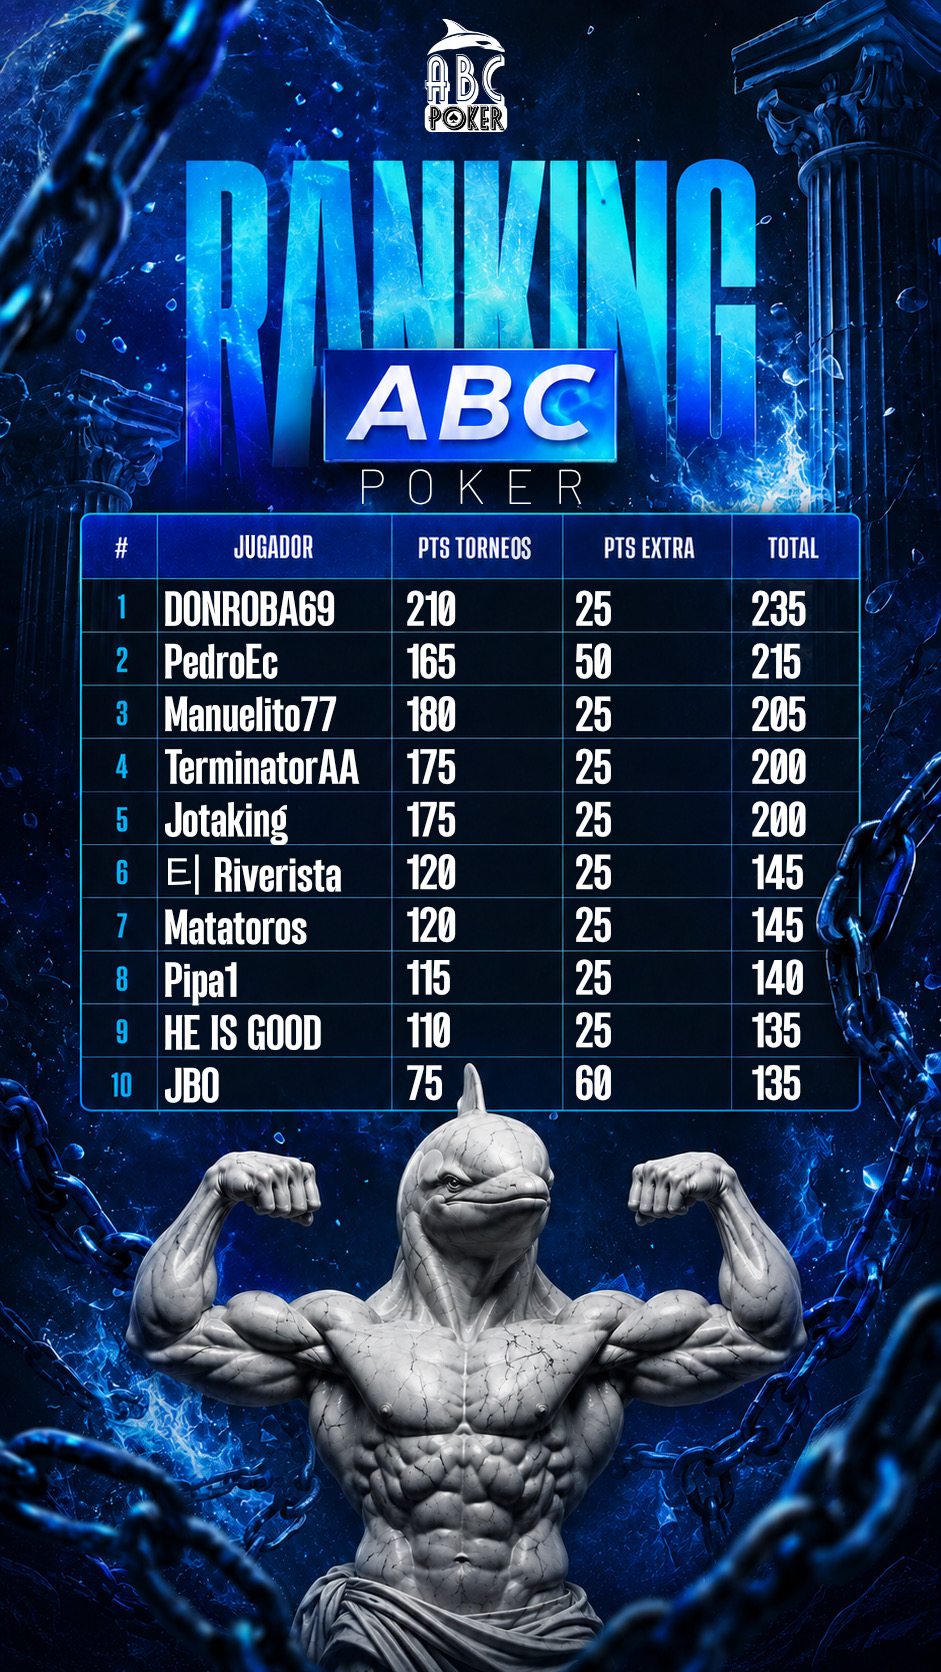
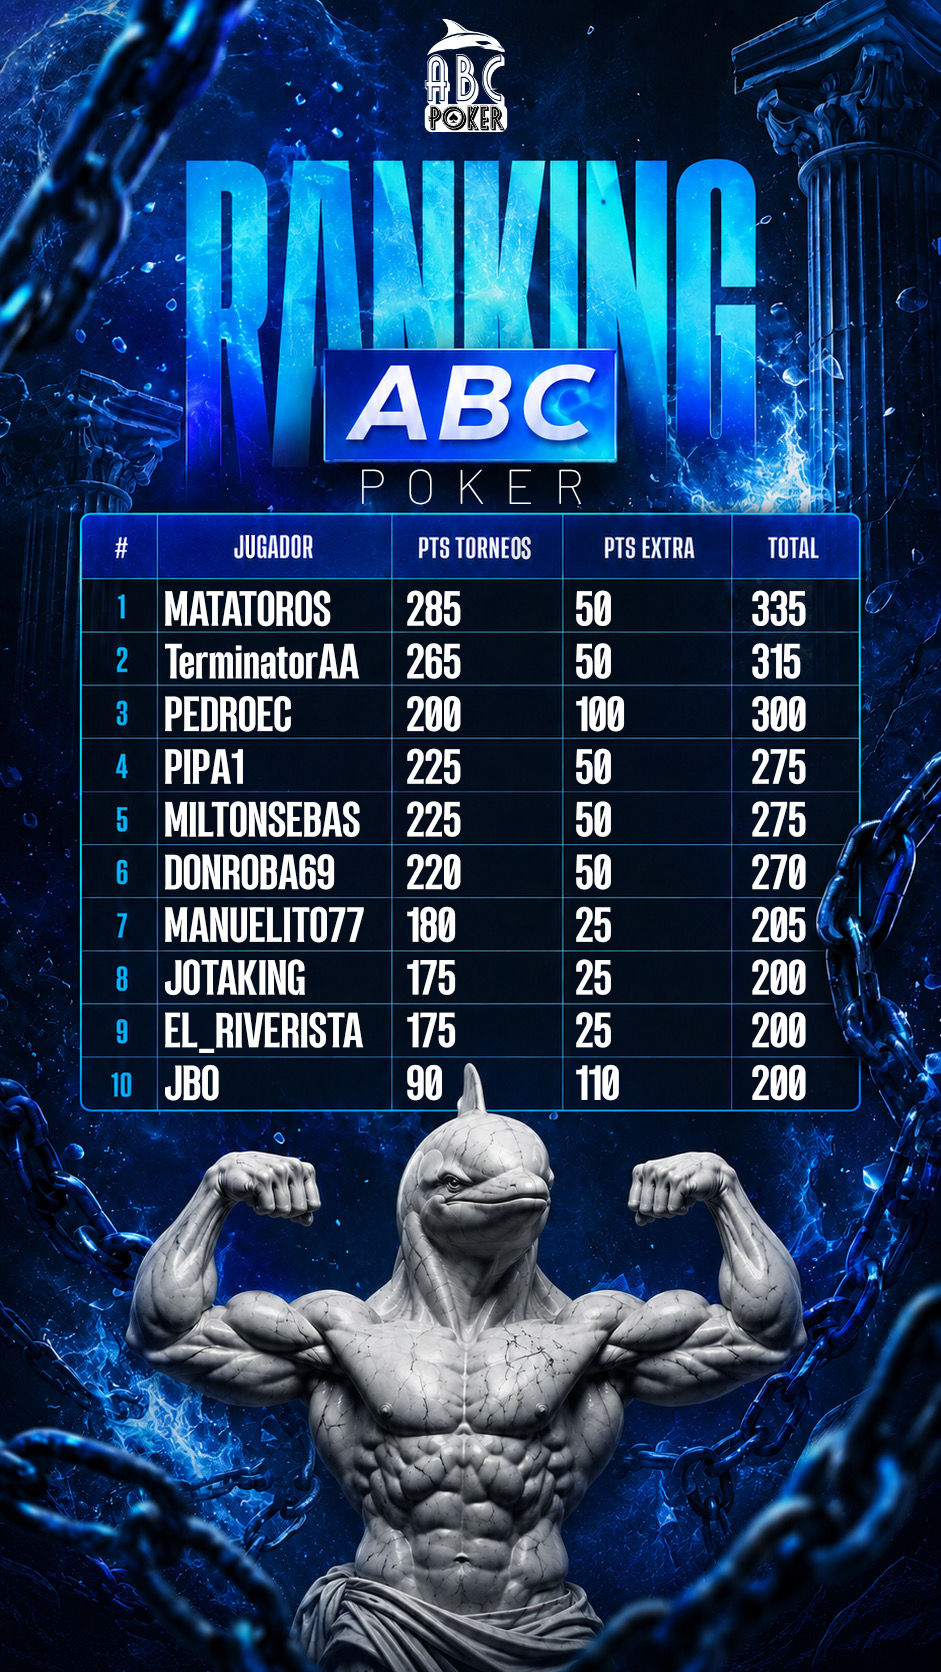
UPDATE: Synchronize official Ranking poster (RANKINGABCC.jpg?v=3), Leaderboard table (Matatoros #1 335pts), and Calendario schedule (Mystery Bounty & 8:00 PM times)

diff --git a/index.html b/index.html
@@ -826,11 +826,11 @@
       </div>
 
       <div class="relative rounded-2xl overflow-hidden border border-cyan-500/30 shadow-2xl bg-slate-950 flex items-center justify-center">
-        <img src="/RANKINGABCC.jpg?v=2" alt="Ranking Oficial ABC Poker" class="w-full h-full object-contain max-h-[65vh]" />
+        <img src="/RANKINGABCC.jpg?v=3" alt="Ranking Oficial ABC Poker" class="w-full h-full object-contain max-h-[65vh]" />
       </div>
 
       <div class="flex items-center justify-between pt-2 text-xs text-slate-400 font-mono">
-        <span>Líder Actual: <strong class="text-amber-400">DONROBA69 (235 PTS)</strong></span>
+        <span>Líder Actual: <strong class="text-amber-400">MATATOROS (335 PTS)</strong></span>
         <button onclick="closeModal('ranking-poster-modal')" class="interactive-btn px-4 py-2 rounded-xl text-xs font-bold text-slate-950 bg-cyan-400">
           Cerrar Vista
         </button>
@@ -1028,13 +1028,13 @@
     // 3 Confirmed Weekly Tournaments (images from 'calendario/confirmados/')
     const CALENDAR_EVENTS = [
       {
-        id: 'cal-pko',
+        id: 'cal-mystery',
         date: '14',
         dayName: 'Martes',
-        title: 'PKO BOUNTY CAZADOR',
+        title: 'MYSTERY BOUNTY CAZADOR',
         gtd: '$500 GTD',
         buyIn: '$15 - 50.000PTS',
-        time: '10:00 PM',
+        time: '8:00 PM',
         status: 'confirmado',
         image: '/calendario/confirmados/PKO.jpg',
         clubId: '1743809',
@@ -1062,7 +1062,7 @@
         title: 'SUNDAY SPECIAL ESTELAR',
         gtd: '$700 GTD',
         buyIn: '$10',
-        time: '5:00 PM',
+        time: '8:00 PM',
         status: 'confirmado',
         image: '/calendario/confirmados/sunday.jpg',
         clubId: '1743809',
@@ -1083,7 +1083,7 @@
       },
       {
         championName: 'El-algoritmo',
-        tournamentTitle: 'PKO BOUNTY',
+        tournamentTitle: 'MYSTERY BOUNTY',
         prize: '$95.68',
         bounty: '$129.84',
         date: 'Campeón Cazador',
@@ -1102,16 +1102,16 @@
     ];
 
     const RANKING = [
-      { rank: 1, name: 'DONROBA69', ptsTorneos: 210, ptsExtra: 25, total: 235, badge: 'LÍDER #1 👑' },
-      { rank: 2, name: 'PedroEc', ptsTorneos: 165, ptsExtra: 50, total: 215, badge: 'TOP 2 💎' },
-      { rank: 3, name: 'Manuelito77', ptsTorneos: 180, ptsExtra: 25, total: 205, badge: 'TOP 3 🏆' },
-      { rank: 4, name: 'TerminatorAA', ptsTorneos: 175, ptsExtra: 25, total: 200, badge: 'TOP 4 🔥' },
-      { rank: 5, name: 'Jotaking', ptsTorneos: 175, ptsExtra: 25, total: 200, badge: 'TOP 5 ⚡' },
-      { rank: 6, name: 'ㅌ| Riverista', ptsTorneos: 120, ptsExtra: 25, total: 145, badge: 'TOP 6 ♠' },
-      { rank: 7, name: 'Matatoros', ptsTorneos: 120, ptsExtra: 25, total: 145, badge: 'TOP 7 ♠' },
-      { rank: 8, name: 'Pipa1', ptsTorneos: 115, ptsExtra: 25, total: 140, badge: 'TOP 8 ♠' },
-      { rank: 9, name: 'HE IS GOOD', ptsTorneos: 110, ptsExtra: 25, total: 135, badge: 'TOP 9 ♠' },
-      { rank: 10, name: 'JBO', ptsTorneos: 75, ptsExtra: 60, total: 135, badge: 'TOP 10 ♠' }
+      { rank: 1, name: 'Matatoros', ptsTorneos: 285, ptsExtra: 50, total: 335, badge: 'LÍDER #1 👑' },
+      { rank: 2, name: 'TerminatorAA', ptsTorneos: 265, ptsExtra: 50, total: 315, badge: 'TOP 2 💎' },
+      { rank: 3, name: 'PedroEc', ptsTorneos: 200, ptsExtra: 100, total: 300, badge: 'TOP 3 🏆' },
+      { rank: 4, name: 'Pipa1', ptsTorneos: 225, ptsExtra: 50, total: 275, badge: 'TOP 4 🔥' },
+      { rank: 5, name: 'Miltonsebas', ptsTorneos: 225, ptsExtra: 50, total: 275, badge: 'TOP 5 ⚡' },
+      { rank: 6, name: 'DONROBA69', ptsTorneos: 220, ptsExtra: 50, total: 270, badge: 'TOP 6 ♠' },
+      { rank: 7, name: 'Manuelito77', ptsTorneos: 180, ptsExtra: 25, total: 205, badge: 'TOP 7 ♠' },
+      { rank: 8, name: 'Jotaking', ptsTorneos: 175, ptsExtra: 25, total: 200, badge: 'TOP 8 ♠' },
+      { rank: 9, name: 'EL_RIVERISTA', ptsTorneos: 175, ptsExtra: 25, total: 200, badge: 'TOP 9 ♠' },
+      { rank: 10, name: 'JBO', ptsTorneos: 90, ptsExtra: 110, total: 200, badge: 'TOP 10 ♠' }
     ];
 
     const MERCH = [
